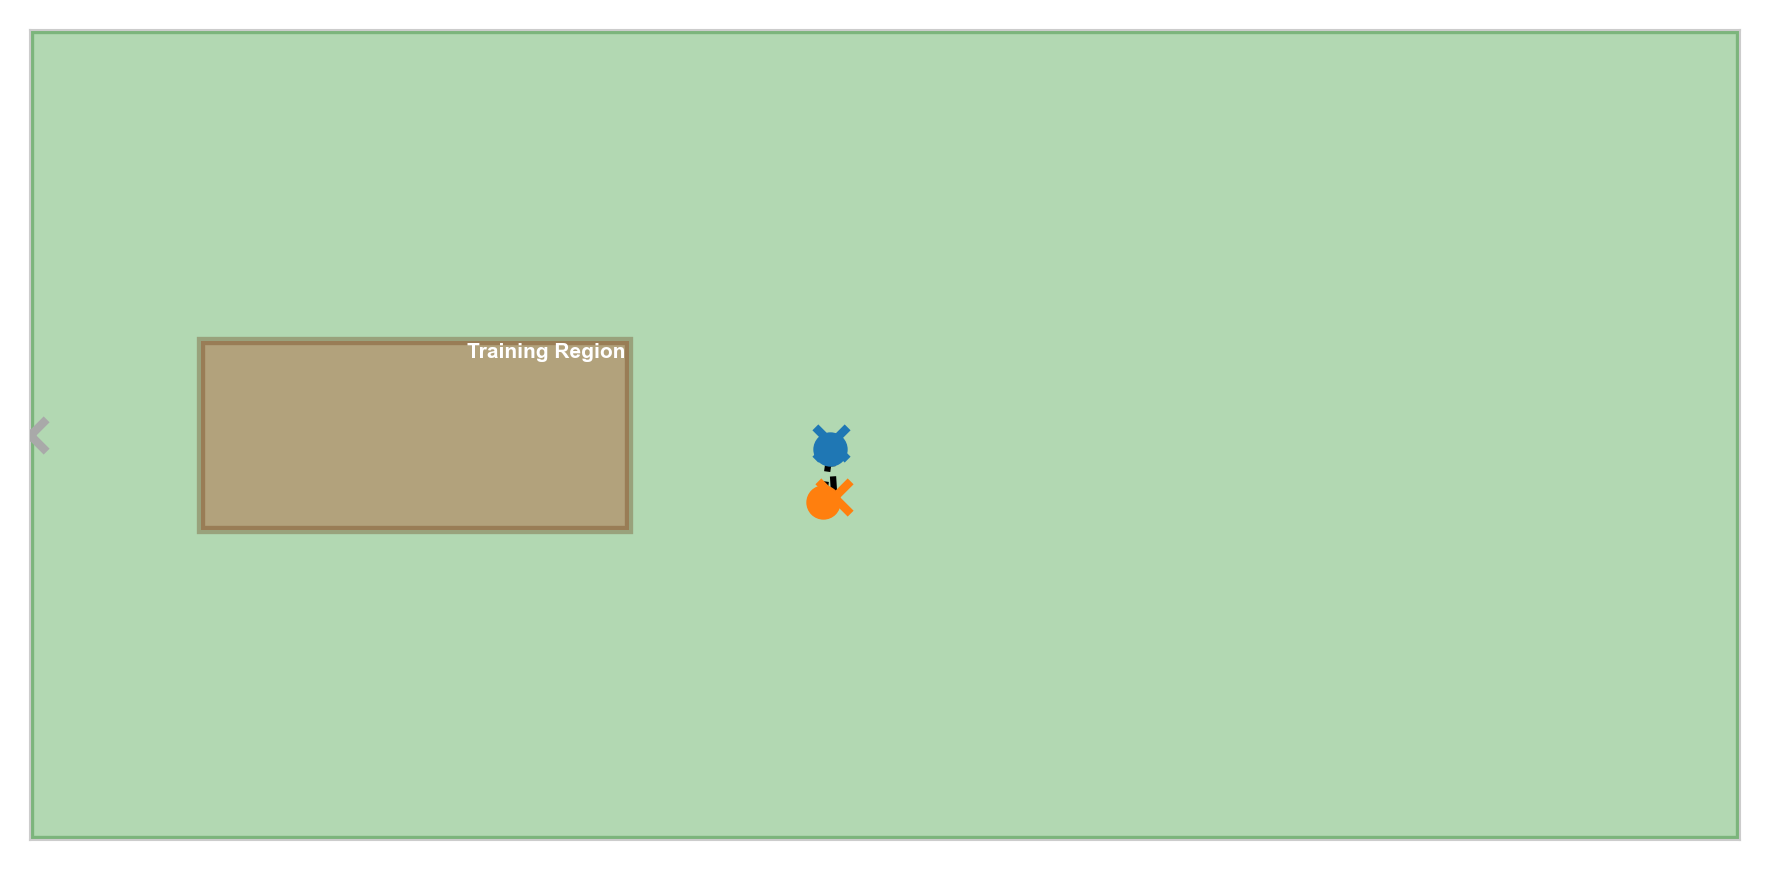
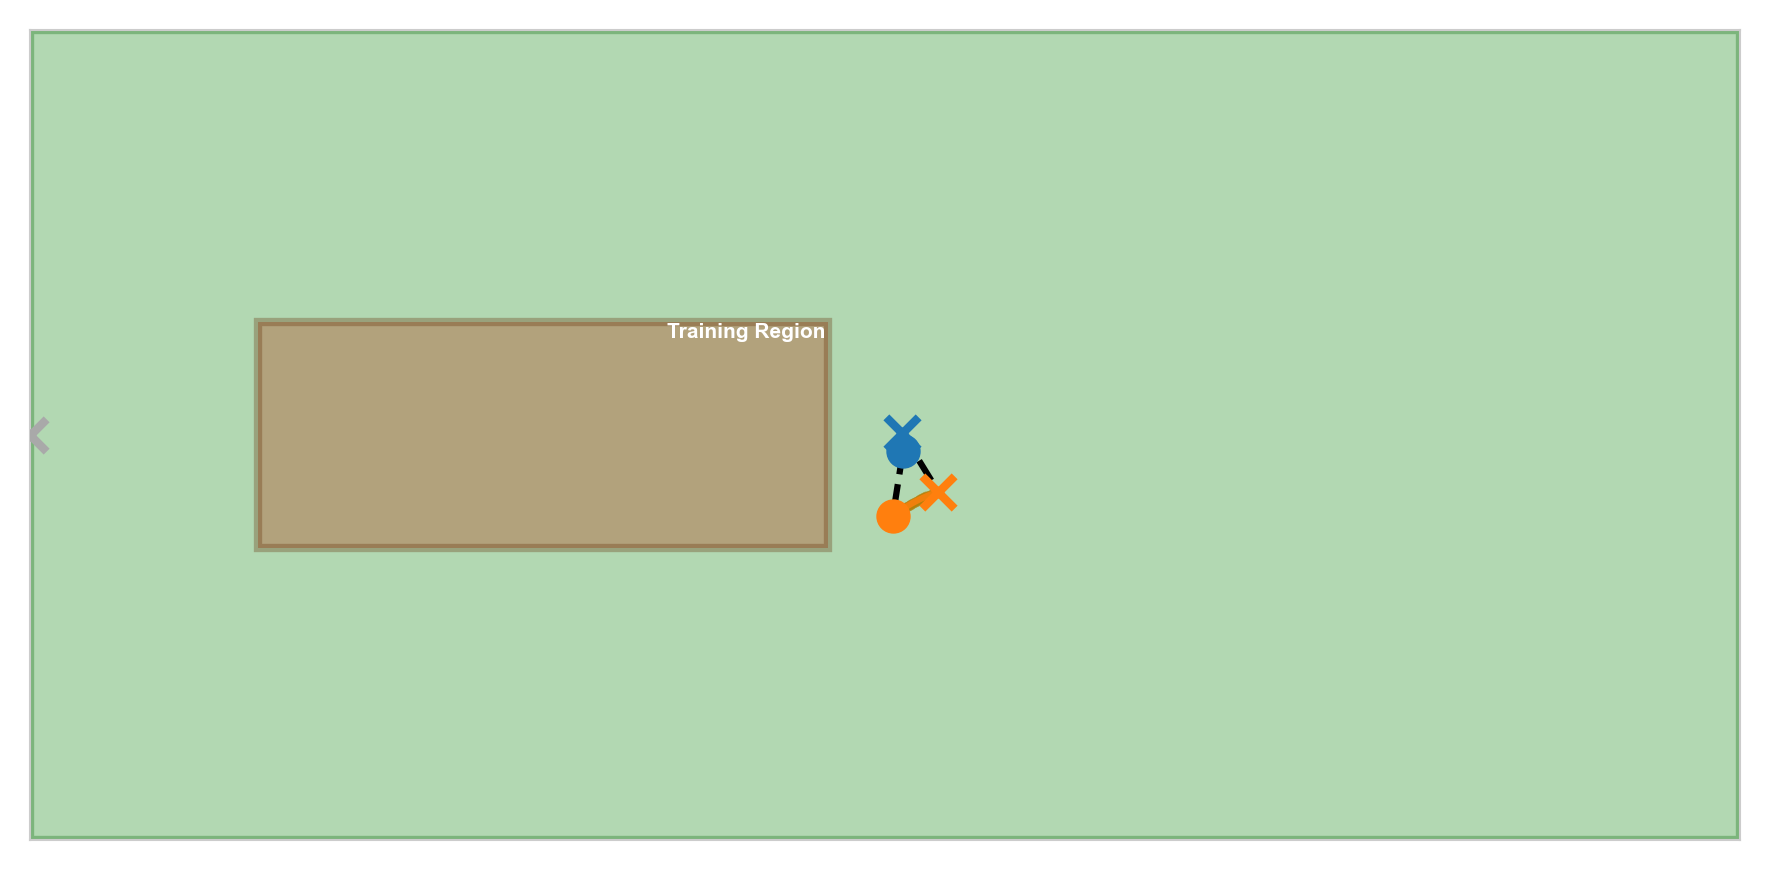
conda_env.yaml is updated, resolution of the GIFs are inrceased

Changed region(s): [[0.0932, 0.3414, 0.5593, 0.6517]]

diff --git a/truck-backer-upper.py b/truck-backer-upper.py
@@ -14,6 +14,7 @@ import matplotlib.style as style
 import os
 import shutil
 import argparse
+
 import imageio
 import subprocess
 from io import BytesIO
@@ -139,7 +140,7 @@ class Truck:
         self.frames = []
         
         if self.display:
-            self.f = figure(figsize=(10, 5), dpi = 100, num='The Truck Backer-Upper', facecolor='none')
+            self.f = figure(figsize=(8, 5), dpi = 120, num='The Truck Backer-Upper', facecolor='none')
             self.ax = self.f.add_axes([0.01, 0.01, 0.98, 0.98], facecolor='black')
             self.patches = list()
                 
@@ -272,7 +273,7 @@ class Truck:
 
         if generate_gif:
             buf = BytesIO()
-            self.f.savefig(buf, format='png', facecolor='black')
+            self.f.savefig(buf, format='png', facecolor='black', dpi=300)
             buf.seek(0)
             image = Image.open(buf).convert("RGBA")  
             self.frames.append(np.array(image))  
@@ -404,14 +405,14 @@ class Truck:
         red_width = train_x_cab_range[1] - red_x0
         red_height = train_y_cab_range_abs[1] * 2
 
-        plt.text(red_x0 + red_width - 0.2, 
-                 red_y0 + red_height - 0.2,
-                 'Training Region',
-                 color='white',
-                 ha='right',
-                 va='top',
-                 fontsize=5,
-                 fontweight='bold')
+        plt.text(red_x0 + red_width - 0.1, 
+                red_y0 + red_height - 0.1,
+                'Training Region',
+                color='white',
+                ha='right',
+                va='top',
+                fontsize=5,
+                fontweight='bold')    
 
                 
         rectangle_green = patches.Rectangle((env_x_range[0], env_y_range[0]), env_x_range[1] - env_x_range[0], env_y_range[1] - env_y_range[0],

diff --git a/README.md b/README.md
@@ -12,11 +12,11 @@
 
 ## Simulation Before Training 
 
-<img src="gifs/lesson-0-2025-06-01_01-49AM.gif" alt="Simulation Before Training" width="600">
+![Simulation Before Training](gifs/lesson-0-2025-06-01_02-22PM.gif)
 
 ## Simulation After Training
 
-<img src="gifs/lesson-10-2025-06-01_01-51AM.gif" alt="Simulation After Training" width="600">
+![Simulation After Training](gifs/lesson-10-2025-06-01_02-25PM.gif)
 
 
 ## Trajectories
@@ -43,6 +43,11 @@
 
 ## Run the Simulation
 
+Install `gifscale` to generate GIFs (Optinal). 
+
+```bash
+brew install gifsicle
+```
 
 Create and activate the conda environment with:
 
